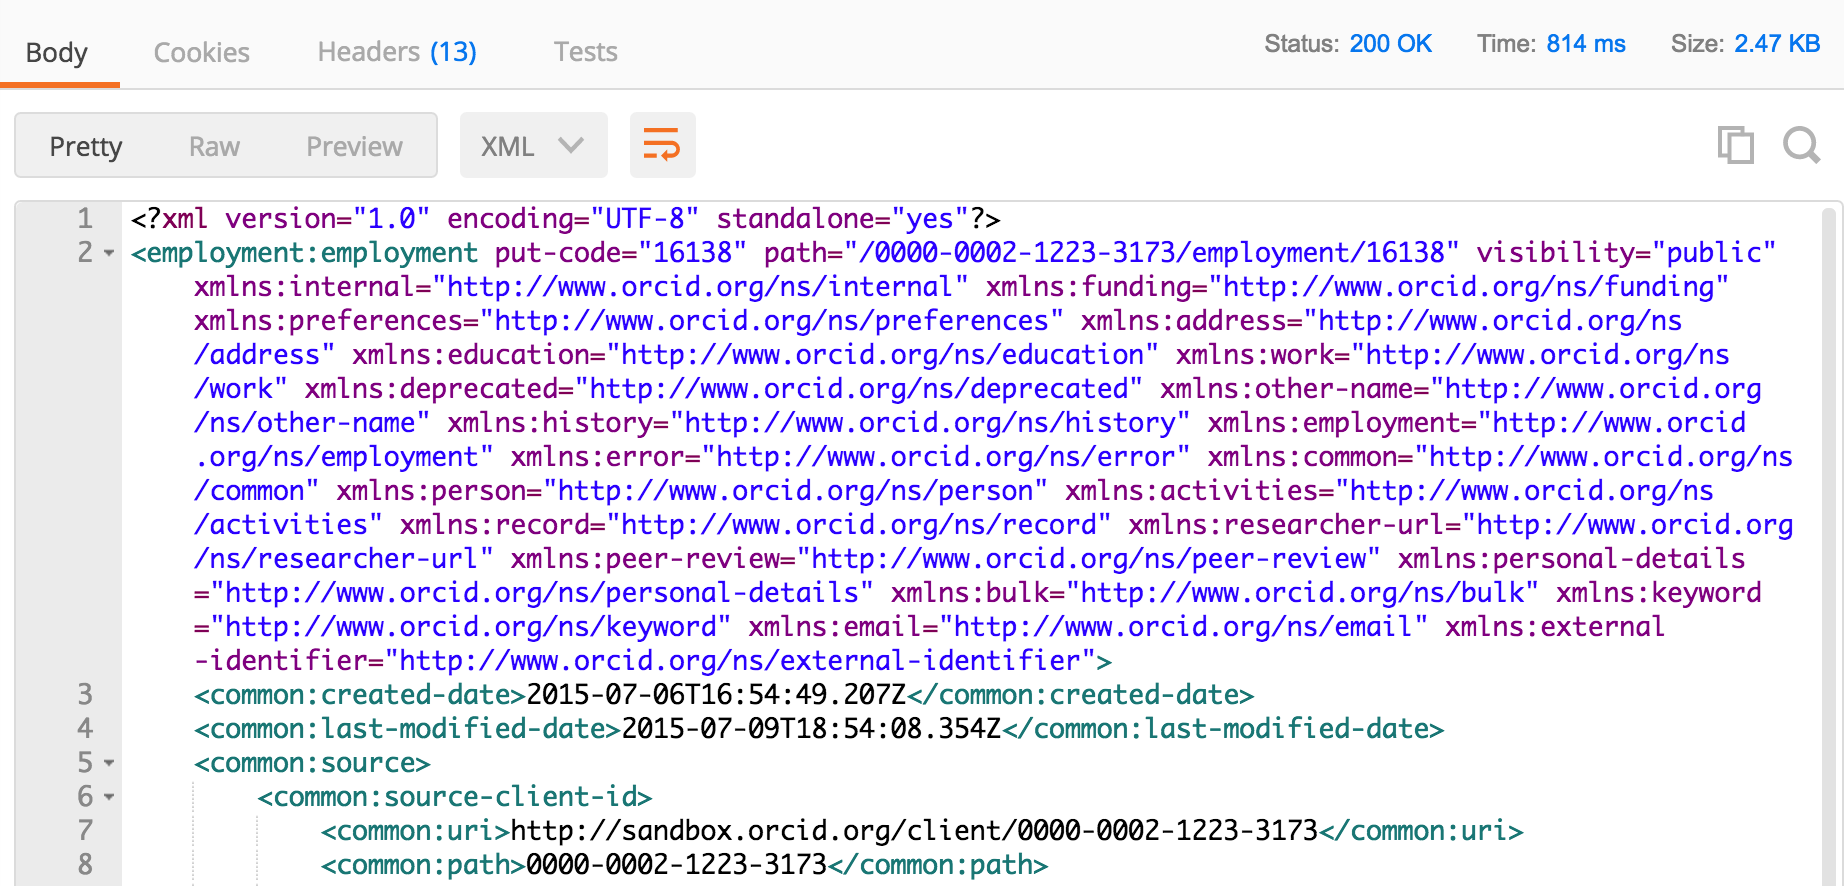
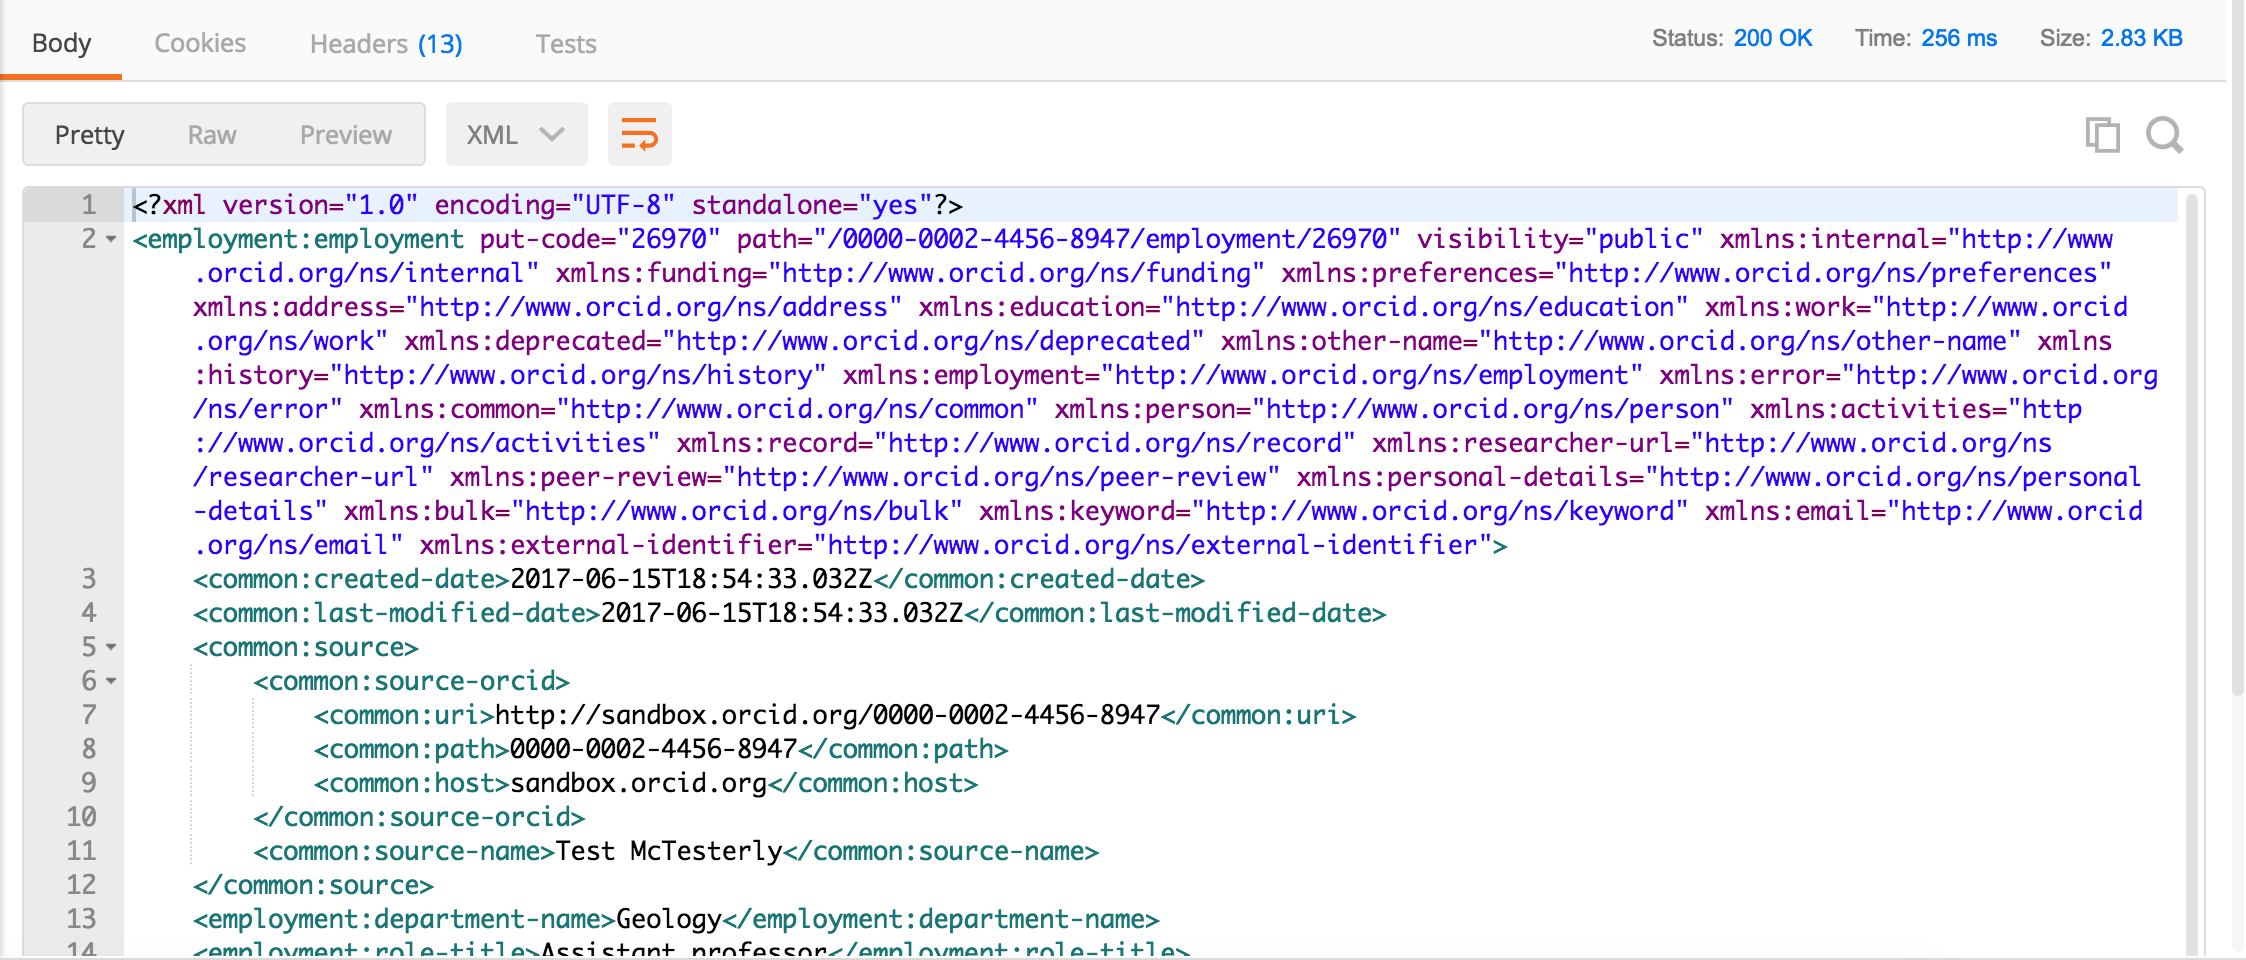
update with read-public token

diff --git a/site/sandbox/index.html b/site/sandbox/index.html
@@ -344,7 +344,7 @@
 <ol>
 <li>In a new window or tab, visit <a href="https://sandbox.orcid.org/register" target="_blank">https://sandbox.orcid.org/register</a></li>
 <li>Complete the form with a name, email, and password.<br>
-<em><strong>IMPORTANT!</strong> Don&rsquo;t use a real email address! Instead, make up an address  ending in @mailinator.com (ex: sgarcia@mailinator.com).</em><br>
+<span style="color: red;"><em><strong>IMPORTANT! Don&rsquo;t use a real email address! Instead, make up an address  ending in @mailinator.com (ex: sgarcia@mailinator.com).</strong> Since the Sandbox only sends emails to @mailinator.com addresses, you need to register with an @mailinator.com address in order to receive the account verification email</em></span><br>
 <img src="../images/01-1_register.png" width="600" alt="ORCID Sandbox registration form" /></li>
 <li>Click the <strong>I consent…</strong> checkbox and click <strong>Register</strong>.<br>
 <em>Remember the email and password - you'll need these throughout the rest of the tutorial!</em></li>

diff --git a/docs/read.md b/docs/read.md
@@ -1,14 +1,40 @@
-In this section, we'll use the Public API to take a look at the underlying data for our Sandbox record. 
+In this section, we'll use the Public API to take a look at the underlying data for our Sandbox record. For more details on this process, see our [Basic tutorial: Read data on an ORCID record ](http://members.orcid.org/api/tutorial/read-orcid-records)
+
+##Get an access token
+Reading and searching public data on ORCID records requires an [OAuth 2.0](https://oauth.net/2/) access token obtained using a **client credentials** grant type.
+
+This type of token can be re-used many times to read or search any ORCID records.
+
+1. In the Postman Builder tab, click **Authorization**, then set the **Type** dropdown to **OAuth 2.0**<br> 
+<img src="../images/04-2_auth-type.png" width="600" alt="Postman authorization type config" />
+3. Click **Get New Access Token**
+2. Enter the following settings:
+
+
+| Field | Value |
+| ------| ------|
+|**Token Name**| Read public |
+|**Auth URL**| Leave blank |
+|**Access Token URL**| ```https://sandbox.orcid.org/oauth/token``` |
+|**Client ID**| ```APP-XA6KUTFCVQL0622C```<br>(Demo client ID created for this workshop) |
+|**Client Secret**| ```7c8d6b1b-401b-4f5d-9b8b-b8108c6e197c```<br>(Demo client secret created for this workshop - do not share API client secrets!) |
+|**Scope**| ```/read-public``` <br>This scope allows reading or searching public data on any ORCID records [ORCID Scopes](https://members.orcid.org/api/oauth/orcid-scopes)|
+|**Grant Type**| Client Credentials|
+
+3. Leave **Request access token locally** unchecked and click **Request Token**<br>
+<img src="../images/read-public-token-config.png" width="400" alt="Postman config for client credentials token" />
+4. Beneath **Existing Tokens**, click **Read public**. The access token will appear at right. Notice that the token expires in 
+631138518 sec (20 years), which means that this token can be reused for some time. <br>
+<img src="../images/read-public-token-response.png" width="600" alt="Postman response for an access token request" /><br>
 
 ##Read a record summary
-1. Open Postman and click the **Builder** tab at the top of the screen
-2. Set the request type to **GET**
-3. In the **Enter request URL** field enter:<br>
-```https://pub.sandbox.orcid.org/v2.0/[ORCID ID]/record```<br>
-*Replace [ORCID ID] with the iD for your Sandbox record, format XXXX-XXXX-XXXX-XXXX*<br>
+1. Set the request type to **GET**
+2. In the **Enter request URL** field enter:<br>
+```https://pub.sandbox.orcid.org/v2.0/0000-0002-4456-8947/record```<br>
+*Replace the ORCID iD above with the iD for your Sandbox record, format XXXX-XXXX-XXXX-XXXX*<br>
 <img src="../images/02-1_request-record.png" width="600" alt="Postman request for ORCID record summary" />
-4. Click **Send**
-5. A summary version of your record in XML format will appear in the **Body** section of the response<br>
+3. Click **Send**
+4. A summary version of your record in XML format will appear in the **Body** section of the response<br>
 <img src="../images/02-1_response-record.png" width="600" alt="Postman response for ORCID record summary" />
 
 ##Read activity details
@@ -17,8 +43,8 @@ To get more information about a specific item on an ORCID record, you can retrie
 1. In the record summary XML, find the **activities-summary** section, then find the **put-code** for the employment item that you added in the previous section.<br>
 <img src="../images/02-2_put-code.png" width="600" alt="XML showing put-code for an employment item on an ORCID record" />
 2. In the **Request URL** field enter:<br>
-```https://pub.sandbox.orcid.org/v2.0/[ORCID ID]/employment/[PUT CODE]```<br>
-*Replace [ORCID ID] with the iD for your Sandbox record, format XXXX-XXXX-XXXX-XXXX and [PUT CODE] with the put-code for your employment item*<br>
+```https://pub.sandbox.orcid.org/v2.0/0000-0002-4456-8947/employment/26970```<br>
+*Replace [ORCID ID] with the iD for your Sandbox record, format XXXX-XXXX-XXXX-XXXX and the put-code with the put-code for your employment item*<br>
 <img src="../images/02-2_request-employment.png" width="600" alt="Postman request for an employment item on an ORCID record" />
 3. Click **Send**
 4. Fulls details of your employment entry will appear in the **Body** of the response section<br>

diff --git a/docs/access.md b/docs/access.md
@@ -1,0 +1,68 @@
+##API Environments
+###Sandbox
+
+|                |            |
+| -------------- | ---------- |
+|**User interface**| [https://sandbox.orcid.org/signin](https://sandbox.orcid.org/signin)  |
+|**Public API**| [https://pub.sandbox.orcid.org](https://pub.sandbox.orcid.org) |
+|**Member API**| [https://api.sandbox.orcid.org](https://sandbox.orcid.org) |
+
+**Sandbox vs Production:**
+
+- Sandbox sometimes has features/changes that don't exist yet in production
+- Sandbox has less compute power, fewer servers (slower, less reliable)
+- Sandbox only sends emails to mailinator.com addresses
+- Import wizard tools for works, funding, etc don't work in the Sandbox
+- Menu links to informational content (For Researchers, For Organizations, About, Help, etc) don't work in the Sandbox
+- Sandbox doesn't contain production data
+
+###Production
+|                |            |
+| -------------- | ---------- |
+|**User interface**| [https://orcid.org/signin](https://orcid.org/signin)  |
+|**Public API**| [https://pub.orcid.org](https://pub.orcid.org) |
+|**Member API**| [https://api.orcid.org](https://api.orcid.org) |
+
+
+##API credentials
+
+To use any of the ORCID APIs, you'll need credentials consisting of a **client ID** and a **client secret**.
+
+###Public API
+1. Visit the Developer Tools section of your ORCID record:
+    - **Sandbox:** [https://sandbox.orcid.org/developer-tools](https://sandbox.orcid.org/developer-tools)
+    - **Production:** [https://orcid.org/developer-tools](https://orcid.org/developer-tools)
+<img src="../images/public-api-request-creds.png" width="600" alt="Request ORCID public API credentials" />
+
+2. Fill out the form<br>
+<img src="../images/public-api-cred-form.png" width="600" alt="ORCID public API credential request form" />
+
+3. Get API credentials!<br>
+<img src="../images/public-api-creds.png" width="600" alt="ORCID public API credentials" />
+
+###Member APIs
+
+####Sandbox
+1. Visit [https://orcid.org/content/register-client-application-sandbox](https://orcid.org/content/register-client-application-sandbox)
+
+2. Fill out the form<br>
+<img src="../images/member-api-request-creds.png" width="600" alt="ORCID member API credential request form" />
+
+3. Wait patiently for an email from the ORCID support team, which will contain instructions for retreiveing your credentials.
+
+####Production
+Visit [https://orcid.org/content/register-client-application-production-trusted-party](https://orcid.org/content/register-client-application-production-trusted-party) and complete the form. 
+
+Members are required to test their applications against Sandbox and complete a review before receiving Production credentials. 
+
+All member integrations need to meet the requirements on the [Member API Credential Checklist](https://members.orcid.org/api/member-api-credentials-check-list)
+
+
+For this workshop, we'll use a set of demo set of Sandbox member API credentials:
+
+```
+client_id: APP-XA6KUTFCVQL0622C
+client_secret: 7c8d6b1b-401b-4f5d-9b8b-b8108c6e197c
+```
+(Demo client secret created for this workshop - do not share API client secrets!)
+

diff --git a/docs/authenticate.md b/docs/authenticate.md
@@ -4,40 +4,17 @@ In practice, you'll need to gather up iDs for researchers whose ORCID records yo
 
 In this section, we'll use the Sandbox Member API to get an authenticated ORCID iD. This process can also be completed using the Public API.
 
-**Authenticated iDs**
+###About authenticated iDs
 
 ORCID is about disambiguation,it's important that you get the correct iD for each researcher. The best way to do this is to collect **Authenticated ORCID iDs**, which means that each researcher signs into their ORCID account and authorizes your system to obtain their iD. [Learn more about Authenticated iDs](https://orcid.org/blog/2017/02/20/whats-so-special-about-signing)
 
-**OAuth 2.0** 
+###Get an authenticated iD 
 
-Getting an Authenticated iD from a user involves following [OAuth 2.0](https://oauth.net/2/), an industry-standard protocol for authorization. OAuth allows a user to give a website or application access to account information stored on another site, without giving that site their password. 
+Getting an Authenticated iD from a user requires generating an [OAuth 2.0](https://oauth.net/2/) access token using an **Authorization Code** grant type. 
 
-If you've ever signed into a site using Google or Facebook instead of your credentials for that particular site, you've already used OAuth!
+This grant type allows a user to give a website or application access to account information stored on another site, without giving that site their password. 
 
-**The OAuth process includes 3 steps:**
-
-1. Create an authorization URL
-1. Get an authorization code
-2. Exchange the authorization code for an access token
-
-###Get API credentials
-API credentials consisting of a **client ID** and a **client secret** are needed in order to get Authenticated iDs and/or user permissions.
-
-To get Authenticated iDs, you can use Public or Member API credentials. To get permission to read non-public information or add/update researchers' ORCID records, you'll need Member API credentials. To request API credentials, see [Request API credentials](https://orcid.org/content/register-client-application)
-
-For this workshop, we'll use a set of demo credentials:
-
-```
-client_id: APP-XA6KUTFCVQL0622C
-client_secret: 7c8d6b1b-401b-4f5d-9b8b-b8108c6e197c
-```
-(Demo client secret created for this workshop - do not share API client secrets!)
-
-###Get an authenticated ORCID iD
-
-For this tutorial, we'll use Postman to simulate the steps of an OAuth 2.0 interaction that, in the real world, would be completed by your own custom web application or a vendor system.
-
-For more details on what's happening behind the scenes, see our [Basic tutorial: Get an authenticated ORCID iD ](https://members.orcid.org/api/tutorial/get-orcid-id)
+If you've ever signed into a site using Google or Facebook instead of your credentials for that particular site, you've already used the same process!
 
 1. In the Postman Builder tab, click the **+** sign at the top of the screen to create a new request.
 2. Click **Authorization**, then set the **Type** dropdown to **OAuth 2.0**<br>

diff --git a/docs/index.md b/docs/index.md
@@ -1,3 +1,31 @@
+##About ORCID
+
+**Who we are:**
+
+- Non-profit 
+- Open source project
+- Committed international community
+
+**Our goal:**
+
+All who participate in research, scholarship, and innovation are **uniquely identified** and **connected to their contributions** across disciplines, borders, and time.
+
+**Why?**
+
+- Help people find information (like all of a researcher's publications)
+- Simplify reporting and analysis (by providing a central source for info about researcher's affilations and activites)
+- Reduce time spent filling out forms (by providing a source for autopopulating form fields)
+
+**What we provide:**
+
+- **Persistent digital identifier** for researchers (ORCID iD)
+- **Registry** of those identifiers + their connections to affiliations and research activities
+- **APIs** for creating/retrieving metadata about connections between people, affiliations and research activities
+
+
+
+ORCID doesn't do this on its own - integrations with other systems (like manuscript submission/production, funding application, repository, research information, and directory systems) are essential.
+
 ##About the ORCID APIs
 ORCID's web interface gives researchers a way to interact with their record, but the real power of ORCID lies in the underlying data, which can be accessed by people and systems via Application Programming Interfaces (APIs).
 
@@ -10,11 +38,11 @@ ORCID's web interface gives researchers a way to interact with their record, but
 
 | Features       | Public | Basic Member | Premium Member |
 | -------------- | ---------- | ---------------- | ------------------ |
-|**AUTHENTICATE**<br>Get a user's authenticated ORCID iDs| X | X | X |
-|**READ(PUBLIC)**<br>Read/search public data on ORCID records| X | X | X |
-|**READ (LIMITED)**<br>Read/search limited-access data on ORCID records|  | X | X |
-|**UPDATE**<br>Add items to a record or update items you added previously|  | X | X |
-|**WEBHOOKS**<br>Get notifications when ORCID records you're monitoring are updated|  |  | X |
+|**READ**<br>Read data ORCID records| **X**<br>*Public data*  | **X**<br>*Public + limited-access data (with user permission)* | **X**<br>*Public + limited-access data (with user permission)* |
+|**SEARCH**<br>Search data on ORCID records| **X**<br>*Public data* | **X**<br>*Public + limited-access data (with user permission)*  | **X**<br>*Public + limited-access data (with user permission)* |
+|**AUTHENTICATE**<br>Get a user's authenticated ORCID iD| **X** | **X** | **X** |
+|**UPDATE**<br>Add items to a record or update items you added previously|  | **X** | **X** |
+|**WEBHOOKS**<br>Get notifications when ORCID records you're monitoring are updated|  |  | **X** |
 
 All of the ORCID APIs are  based on the same set of technologies:
 

diff --git a/docs/search.md b/docs/search.md
@@ -2,12 +2,20 @@ In addition to reading information on a specific ORCID record, you can use the A
 
 In this section, we'll try searches using just a few of the available fields. For a full list of fields that you can search, see our [Basic tutorial: Searching Data using the ORCID API](https://members.orcid.org/api/tutorial/search-orcid-registry)
 
+##Get an access token
+If you already have a token valid for the scope ```/read-public``` from the previous section, you can use that token.
+
+If not, go back and follow the steps in [READ public info: Get an access token](read/#get-an-access-token)
+
 ##Search for records with an institutional affiliation
 1. Open Postman and click the **Builder** tab at the top of the screen
 2. Set the request type to **GET**
 3. In the **Enter request URL** field enter:<br>
 ```https://pub.sandbox.orcid.org/v2.0/search/?q=affiliation-org-name:%22Boston%20University%22```<br>
 <img src="../images/03-1_request-search.png" width="600" alt="Postman request for ORCID record search" />
+4. Click the **Authorization** tab and set the Type dropdown to **OAuth 2.0**
+5. Under **Existing Tokens**, select the **Read public** token, and set the **Add token to** dropdown to **Header** at right<br>
+<img src="../images/read-public-token-response.png" width="600" alt="Postman response for an access token request" /><br>
 4. Click **Send the request**
 5. The total number of matching ORCID iDs and a list of those iDs will appear **Request/Response** section<br>
 <img src="../images/03-1_response-search.png" width="600" alt="Postman response for ORCID record search" />

diff --git a/docs/sandbox.md b/docs/sandbox.md
@@ -1,9 +1,4 @@
-For this workshop, we'll use ORCID's test environment, the [ORCID Sandbox](https://sandbox.orcid.org/signin). The Sandbox works just like the production ORCID Registry, with a few exceptions:
-
-* Sandbox only sends emails to [mailinator.com](https://www.mailinator.com/) addresses 
-* Import wizard tools don't work in the Sandbox
-* Menu links to informational content (For Researchers, For Organizations, About, Help, etc) don't work in the Sandbox
-* Sandbox doesn't contain production data
+For this workshop, we'll use ORCID's test environment, the [ORCID Sandbox](https://sandbox.orcid.org/signin). In order to use the Sandbox API, we first need to create an ORCID record in the Sandbox.
 
 ##Create a Sandbox ORCID record
 To get started, you'll need to register an ORCID iD in the Sandbox.
